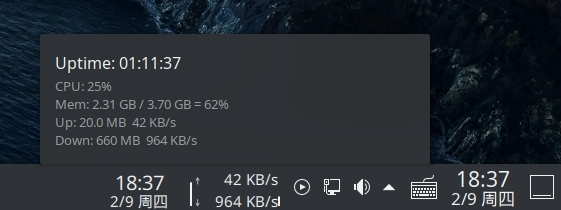
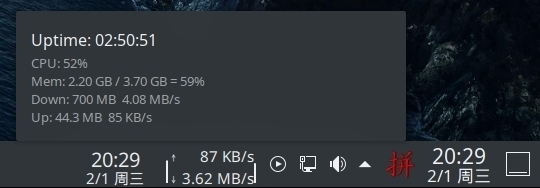
net speed add font family mono

diff --git a/org.hty.CMUD/contents/ui/CompactRepresentation.qml b/org.hty.CMUD/contents/ui/CompactRepresentation.qml
@@ -7,12 +7,12 @@ Item {
 	
 	property var margin: 3
 	property var fontSize: 15
-	property var fontFamily: 'serif'
+	property var fontFamily: 'Noto Mono'
 
 	TextMetrics {
         id: textMetrics
         font {
-            //family: fontFamily
+            family: fontFamily
             pixelSize: fontSize
         }
         text: '↑ 2.39 MB/s'
@@ -21,7 +21,7 @@ Item {
 	TextMetrics {
         id: textMetrics1
         font {
-            //family: fontFamily
+            family: fontFamily
             pixelSize: fontSize
         }
         text: '2.39 MB/s'
@@ -36,28 +36,40 @@ Item {
 		Text {
 			text: '↑ '
 		    color: theme.textColor
-		    font.pixelSize: fontSize
+		    font {
+            	family: fontFamily
+            	pixelSize: fontSize
+        	}
 		}
 		
 		Text {
 			id: speedUp
 			width: textMetrics1.width
 		    color: theme.textColor
-		    font.pixelSize: fontSize
+		    font {
+            	family: fontFamily
+            	pixelSize: fontSize
+        	}
 		    horizontalAlignment: Text.AlignRight
 		}
 		
 		Text {
 			text: '↓ '
 		    color: theme.textColor
-		    font.pixelSize: fontSize
+		    font {
+            	family: fontFamily
+            	pixelSize: fontSize
+        	}
 		}
 		
 		Text {
 			id: speedDown
 			width: textMetrics1.width
 		    color: theme.textColor
-		    font.pixelSize: fontSize
+		    font {
+            	family: fontFamily
+            	pixelSize: fontSize
+        	}
 		    horizontalAlignment: Text.AlignRight
 		}
     }   

diff --git a/README.md b/README.md
@@ -1,6 +1,6 @@
 # KDE plasma widget
 
-Add widget：mouse right menu of desktop or taskbar, add widget.
+Add widget：mouse right menu of desktop or taskbar, add widget.	
 
 Local widget path: ~/.local/share/plasma/plasmoids/
 
@@ -12,13 +12,14 @@ Plasmoid.toolTipMainText, Plasmoid.toolTipSubText
 
 Popup：Plasmoid.fullRepresentation
 
-Config: https://develop.kde.org/docs/extend/plasma/widget/configuration/
+Config: https://develop.kde.org/docs/plasma/widget/configuration/
 
-Test: plasmawindowed org.kde.plasma.CMDU
+Test: plasmawindowed org.hty.CMUD  
+Reload: plasmashell --replace
 
 ## Reference 
-https://develop.kde.org/docs/extend/plasma/widget/
+https://develop.kde.org/docs/plasma/widget/
 
 ## Note
 1.If the id(metadata.json) and dir name are not the same, add widget will fail !  
-2.Add widget must restart plasma to reload widget: plamashell --replace
+2.Add widget must restart plasma to reload widget: plasmashell --replace

diff --git a/org.hty.CMUD/README.md b/org.hty.CMUD/README.md
@@ -5,7 +5,7 @@
 Copy CMUD.png to ~/.local/share/icons/
 
 ## Reference 
-https://develop.kde.org/docs/extend/plasma/widget/  
+https://develop.kde.org/docs/plasma/widget/  
 https://store.kde.org/p/998895 (https://github.com/dfaust/plasma-applet-netspeed-widget)  
 [QML canvas](https://blog.csdn.net/qq_43248127/article/details/89402684)  
 [CMDU_DDE_DOCK](https://github.com/sonichy/CMDU_DDE_DOCK)
